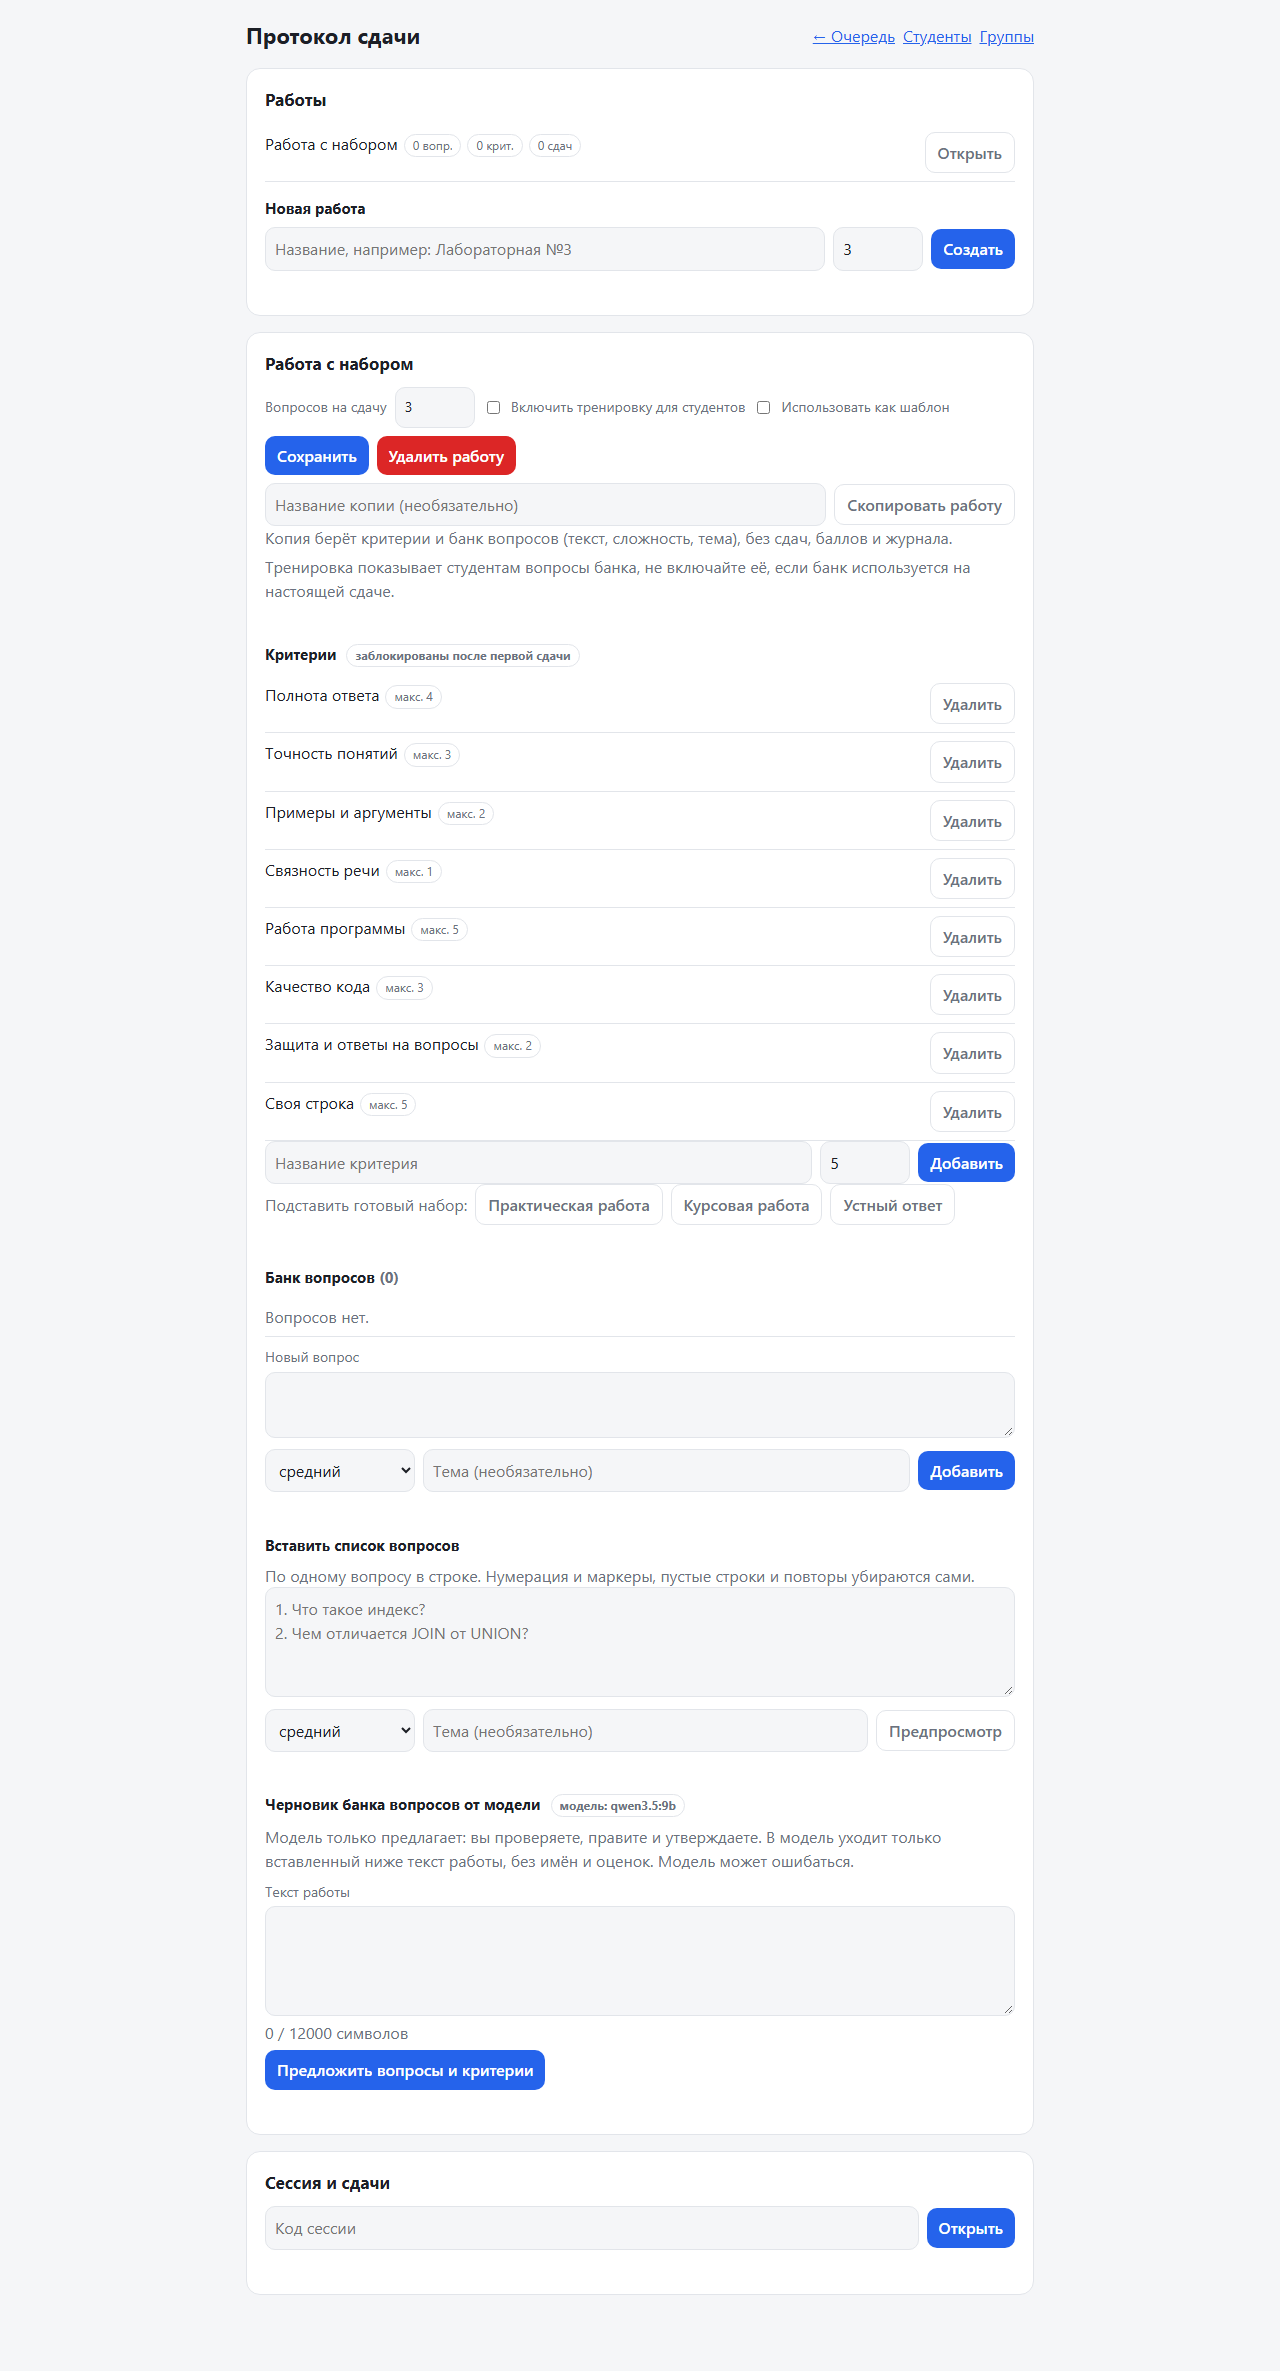
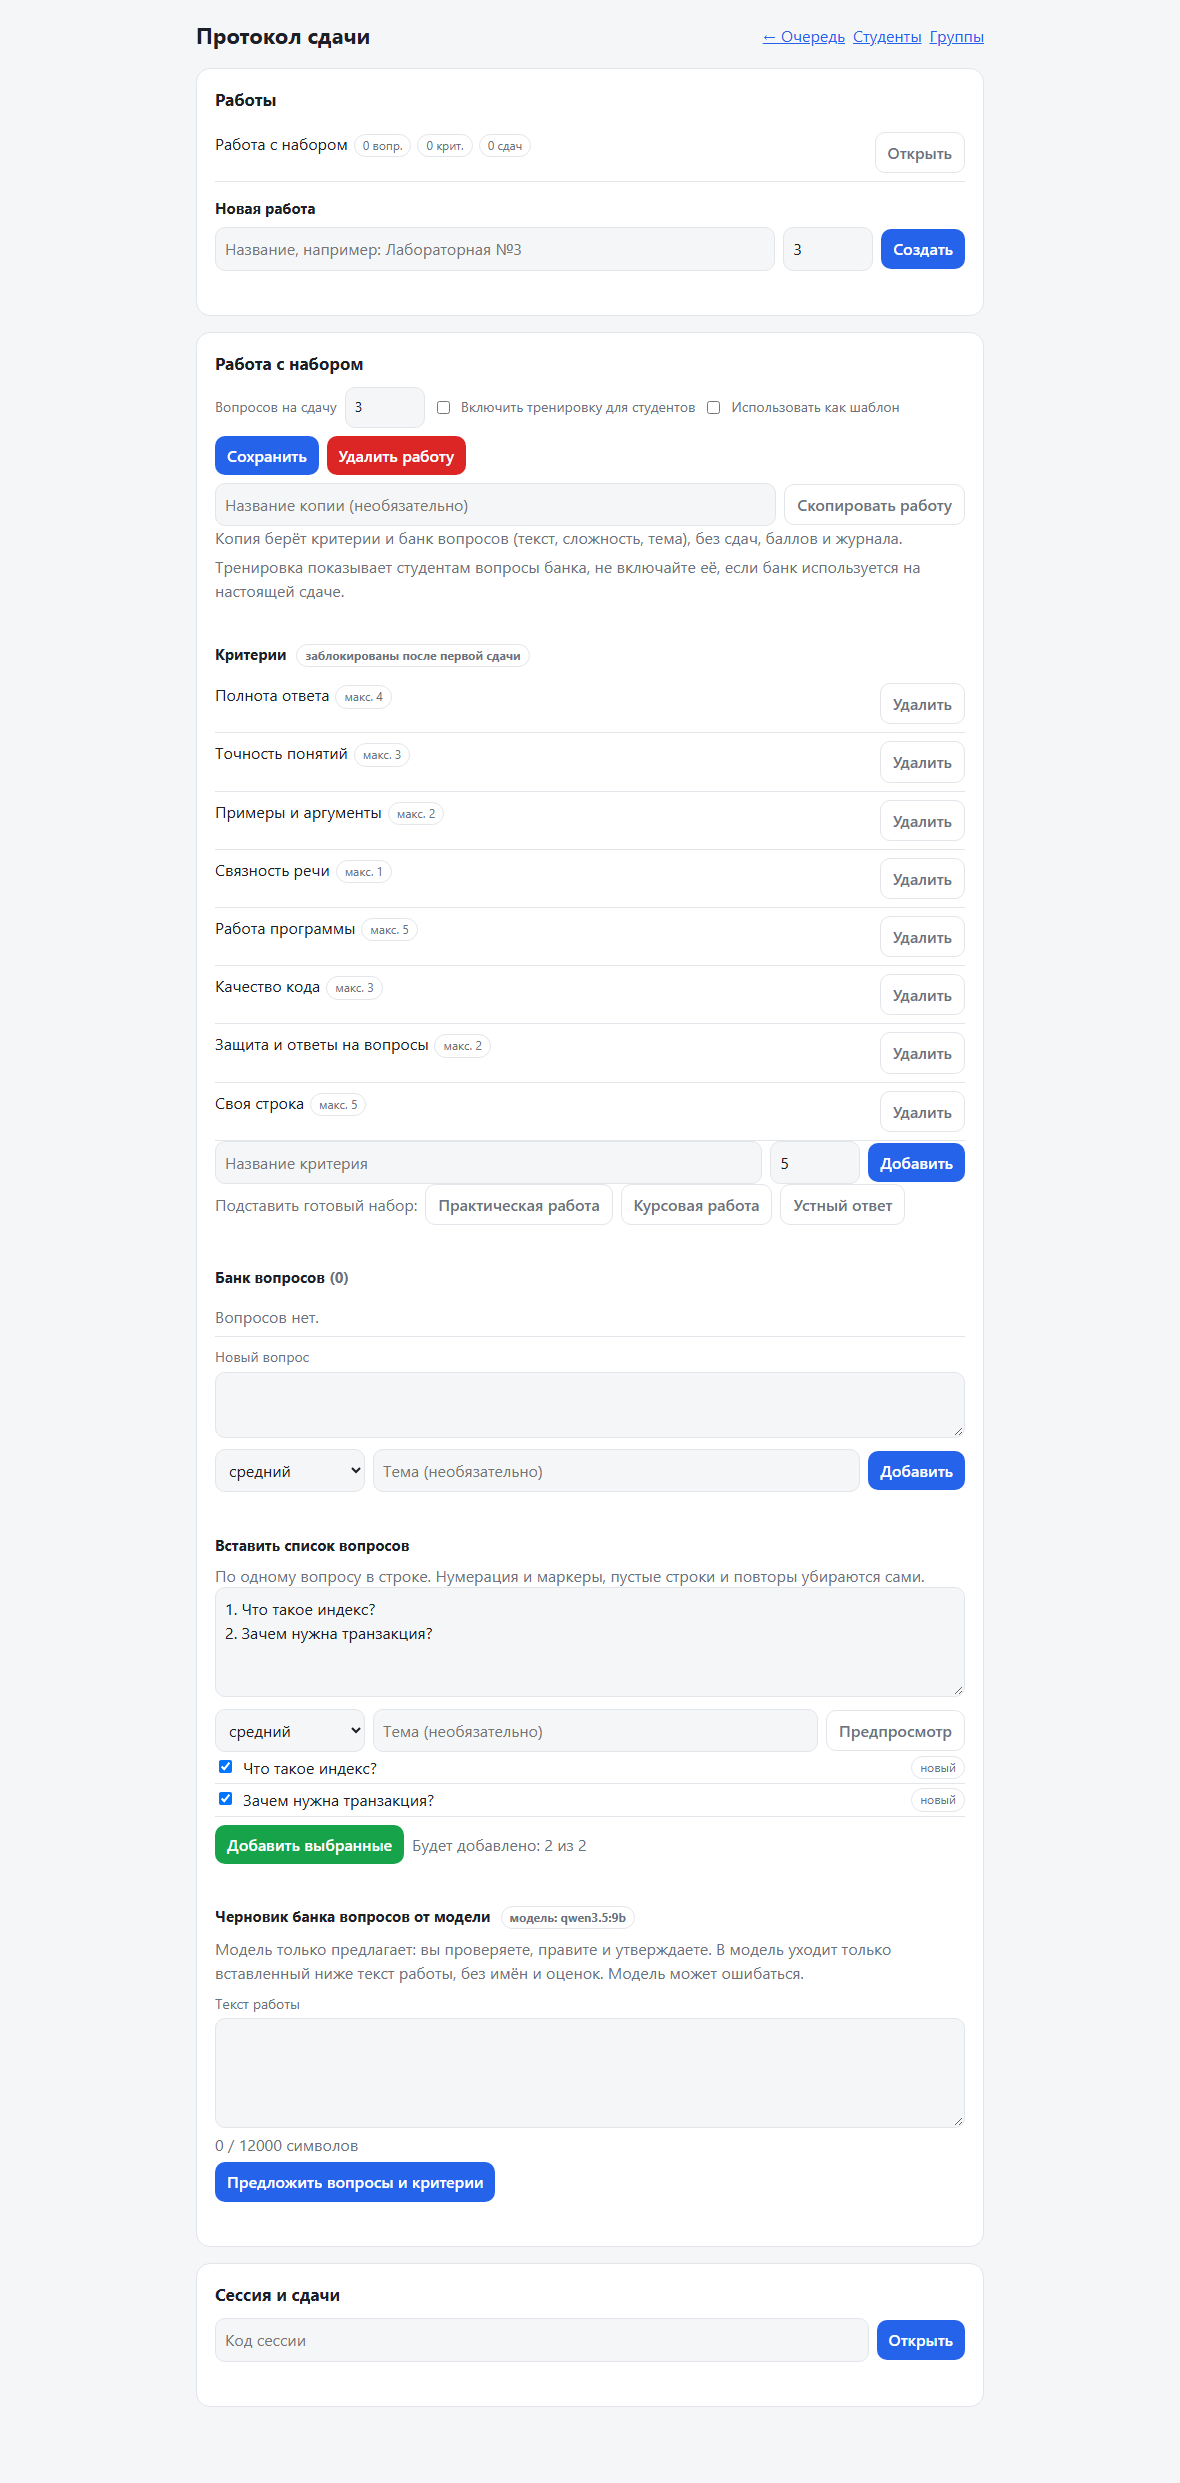
test: show the pasted list preview in the presets screenshot

diff --git a/tests/e2e/test_quick_input_pages.py b/tests/e2e/test_quick_input_pages.py
@@ -68,6 +68,10 @@ def test_ready_criteria_sets_are_added_with_one_click_and_stay_editable(
     page.fill("#c-name", "Своя строка")
     page.click("#c-add")
     expect(page.locator("#criteria > div")).to_have_count(8, timeout=SLOW)
+    page.fill("#qb-text", "1. Что такое индекс?" + chr(10) + "2. Зачем нужна транзакция?")
+    page.click("#qb-preview")
+    expect(page.locator("#qb-list .bulk-row")).to_have_count(2, timeout=SLOW)
+    page.set_viewport_size({"width": 1180, "height": 860})
     shot(page, "protocol-presets-and-bulk")
 
 
